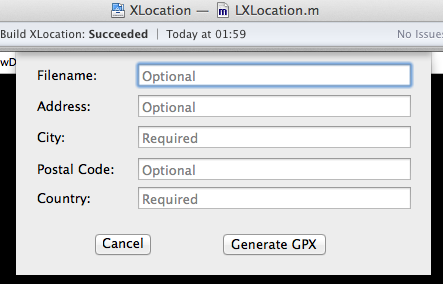
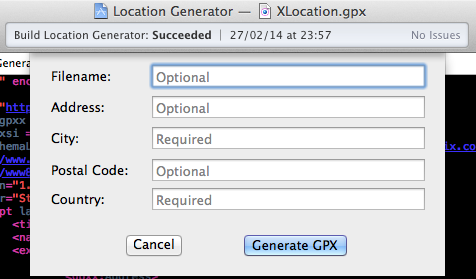
Update README
- Adds features
- Set Key-Equivalent as 'Return' key for 'Generate GPX' button

Changed region(s): [[0.0, 0.0, 1.0, 1.0], [0.4989, 0.8029, 0.7336, 0.9176], [0.2054, 0.8029, 0.3815, 0.9176]]

diff --git a/README.md b/README.md
@@ -5,8 +5,34 @@
 It lets you add a new location from an address known to your current xcode project.
 <br />
 
+![Demo](Screens/demo.gif)
+
 ##Features
 
 The process is very easy, you just need to enter an address (at least a city and its country), then the plug-in while get the coordinates corresponding to this address and generate the GPX file.
 
-![mainScreen](Screens/main.png)
+You can create a new GPX file, you need to inform the following fields:
+
+```` objective-c
+@Required
+````
+
+- City
+- Country
+
+```` objective-c
+@Optional
+````
+
+- Address 	(Default value: `Downtown`)
+- Zip Code
+- The filename
+
+
+##Installation
+
+Download the project and build it, then relaunch Xcode.
+<br />
+XLocation will be installed in `~/Library/Application Support/Developer/Shared/Xcode/Plug-ins` automatically.
+
+If you want to uninstall XLocation, remove XLocation in Plug-ins directory.
